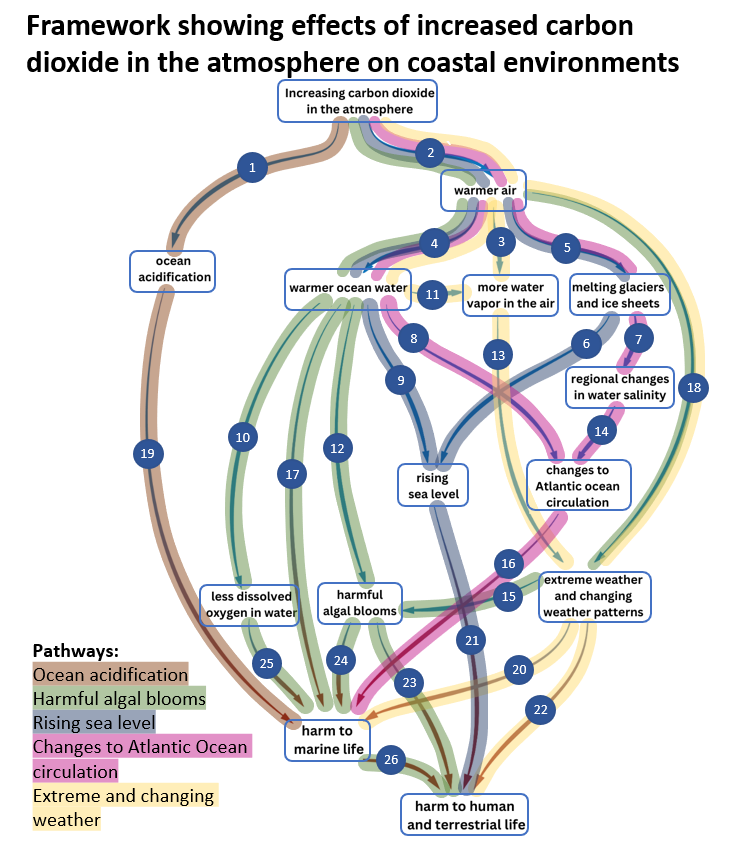
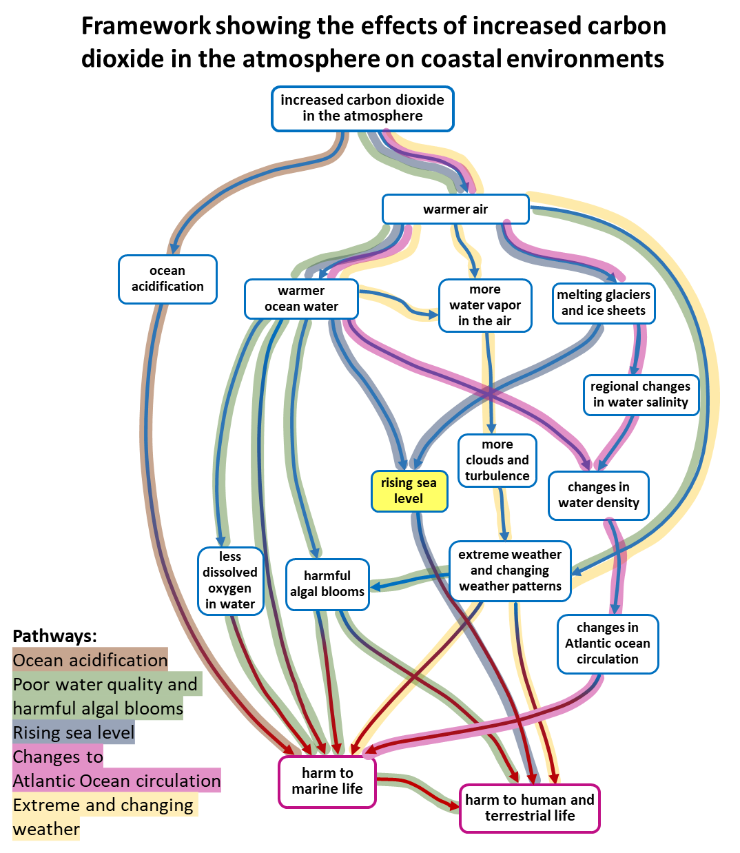
New fseicdace diagrams.

diff --git a/ccsae.html b/ccsae.html
@@ -1,34 +1,38 @@
-<!-- https://dcpetty.dev/ccsae/ v0.3 -->
+<!-- https://dcpetty.dev/ccsae/ v0.4 -->
 <div>
 <map name="ccsae-map">
-<area shape="rect" coords="280,075,430,125" href="https://sites.google.com/view/coastal-climate-science/explainers/increasing-co2" alt="increasing co2 in the atmosphere"
+<area shape="rect" coords="275,090,455,130" href="https://sites.google.com/view/coastal-climate-science/explainers/increasing-co2" alt="increasing co2 in the atmosphere"
   onmouseover="light('a')" onmouseout="dark()" />
-<area shape="rect" coords="410,165,560,215" href="https://sites.google.com/view/coastal-climate-science/explainers/warmer-air" alt="warmer air and the greenhouse effect"
+<area shape="rect" coords="385,195,530,225" href="https://sites.google.com/view/coastal-climate-science/explainers/warmer-air" alt="warmer air and the greenhouse effect"
   onmouseover="light('b')" onmouseout="dark()" />
-<area shape="rect" coords="270,265,420,315" href="https://sites.google.com/view/coastal-climate-science/explainers/warmer-ocean" alt="warmer ocean water"
+<area shape="rect" coords="120,255,220,305" href="https://sites.google.com/view/coastal-climate-science/explainers/ocean-acidification" alt="ocean acidification"
   onmouseover="light('c')" onmouseout="dark()" />
-<area shape="rect" coords="460,270,560,320" href="https://sites.google.com/view/coastal-climate-science/explainers/more-water-vapor" alt="more water vapor in the air"
+<area shape="rect" coords="245,280,365,320" href="https://sites.google.com/view/coastal-climate-science/explainers/warmer-ocean" alt="warmer ocean water"
   onmouseover="light('d')" onmouseout="dark()" />
-<area shape="rect" coords="560,270,660,320" href="https://sites.google.com/view/coastal-climate-science/explainers/melting-glaciers" alt="melting glaciers and ice sheets"
+<area shape="rect" coords="440,275,535,335" href="https://sites.google.com/view/coastal-climate-science/explainers/more-water-vapor" alt="more water vapor in the air"
   onmouseover="light('e')" onmouseout="dark()" />
-<area shape="rect" coords="095,245,245,295" href="https://sites.google.com/view/coastal-climate-science/explainers/ocean-acidification" alt="ocean acidification"
+<area shape="rect" coords="555,280,675,320" href="https://sites.google.com/view/coastal-climate-science/explainers/melting-glaciers" alt="melting glaciers and ice sheets"
   onmouseover="light('f')" onmouseout="dark()" />
-<area shape="rect" coords="350,460,500,510" href="https://sites.google.com/view/coastal-climate-science/explainers/sea-level" alt="rising sea level"
+<area shape="rect" coords="585,375,705,415" href="https://sites.google.com/view/coastal-climate-science/explainers/water-salinity" alt="regional changes in water salinity"
   onmouseover="light('g')" onmouseout="dark()" />
-<area shape="rect" coords="545,365,695,415" href="https://sites.google.com/view/coastal-climate-science/explainers/water-salinity" alt="regional changes in water salinity"
+<area shape="rect" coords="460,435,540,490" href="https://sites.google.com/view/coastal-climate-science/explainers/More-clouds " alt="more clouds and turbulence"
   onmouseover="light('h')" onmouseout="dark()" />
-<area shape="rect" coords="500,460,650,510" href="https://sites.google.com/view/coastal-climate-science/explainers/ocean-circulation" alt="changes to atlantic ocean circulation"
+<area shape="rect" coords="375,475,450,515" href="https://sites.google.com/view/coastal-climate-science/explainers/sea-level" alt="rising sea level"
   onmouseover="light('i')" onmouseout="dark()" />
-<area shape="rect" coords="515,570,665,620" href="https://sites.google.com/view/coastal-climate-science/explainers/extreme-weather" alt="extreme and changing weather"
+<area shape="rect" coords="550,470,650,520" href="https://sites.google.com/view/coastal-climate-science/explainers/water-density" alt="changes in water density"
   onmouseover="light('j')" onmouseout="dark()" />
-<area shape="rect" coords="190,580,310,630" href="https://sites.google.com/view/coastal-climate-science/explainers/less-dissolved-oxygen" alt="less dissolved oxygen in water"
+<area shape="rect" coords="200,545,265,615" href="https://sites.google.com/view/coastal-climate-science/explainers/less-dissolved-oxygen" alt="less dissolved oxygen in water"
   onmouseover="light('k')" onmouseout="dark()" />
-<area shape="rect" coords="310,580,430,630" href="https://sites.google.com/view/coastal-climate-science/explainers/algal-blooms" alt="harmful algal blooms (habs)"
+<area shape="rect" coords="285,560,370,610" href="https://sites.google.com/view/coastal-climate-science/explainers/algal-blooms" alt="harmful algal blooms (habs)"
   onmouseover="light('l')" onmouseout="dark()" />
-<area shape="rect" coords="250,715,400,765" href="https://sites.google.com/view/coastal-climate-science/explainers/harm-to-marine" alt="harm to marine life"
+<area shape="rect" coords="450,540,575,600" href="https://sites.google.com/view/coastal-climate-science/explainers/extreme-weather" alt="extreme and changing weather"
   onmouseover="light('m')" onmouseout="dark()" />
-<area shape="rect" coords="385,785,535,835" href="https://sites.google.com/view/coastal-climate-science/explainers/harm-to-human" alt="harm to human and terrestrial life"
+<area shape="rect" coords="560,615,660,675" href="https://sites.google.com/view/coastal-climate-science/explainers/ocean-circulation" alt="changes to atlantic ocean circulation"
   onmouseover="light('n')" onmouseout="dark()" />
+<area shape="rect" coords="280,755,380,810" href="https://sites.google.com/view/coastal-climate-science/explainers/harm-to-marine" alt="harm to marine life"
+  onmouseover="light('o')" onmouseout="dark()" />
+<area shape="rect" coords="460,785,600,835" href="https://sites.google.com/view/coastal-climate-science/explainers/harm-to-human" alt="harm to human and terrestrial life"
+  onmouseover="light('p')" onmouseout="dark()" />
 </map>
 <img id="ccsae" style="display: block; margin: auto; background-color: gold;"
   usemap="#ccsae-map" src="https://dcpetty.dev/ccsae/images/fseicdace.png" alt="ccsae" />
